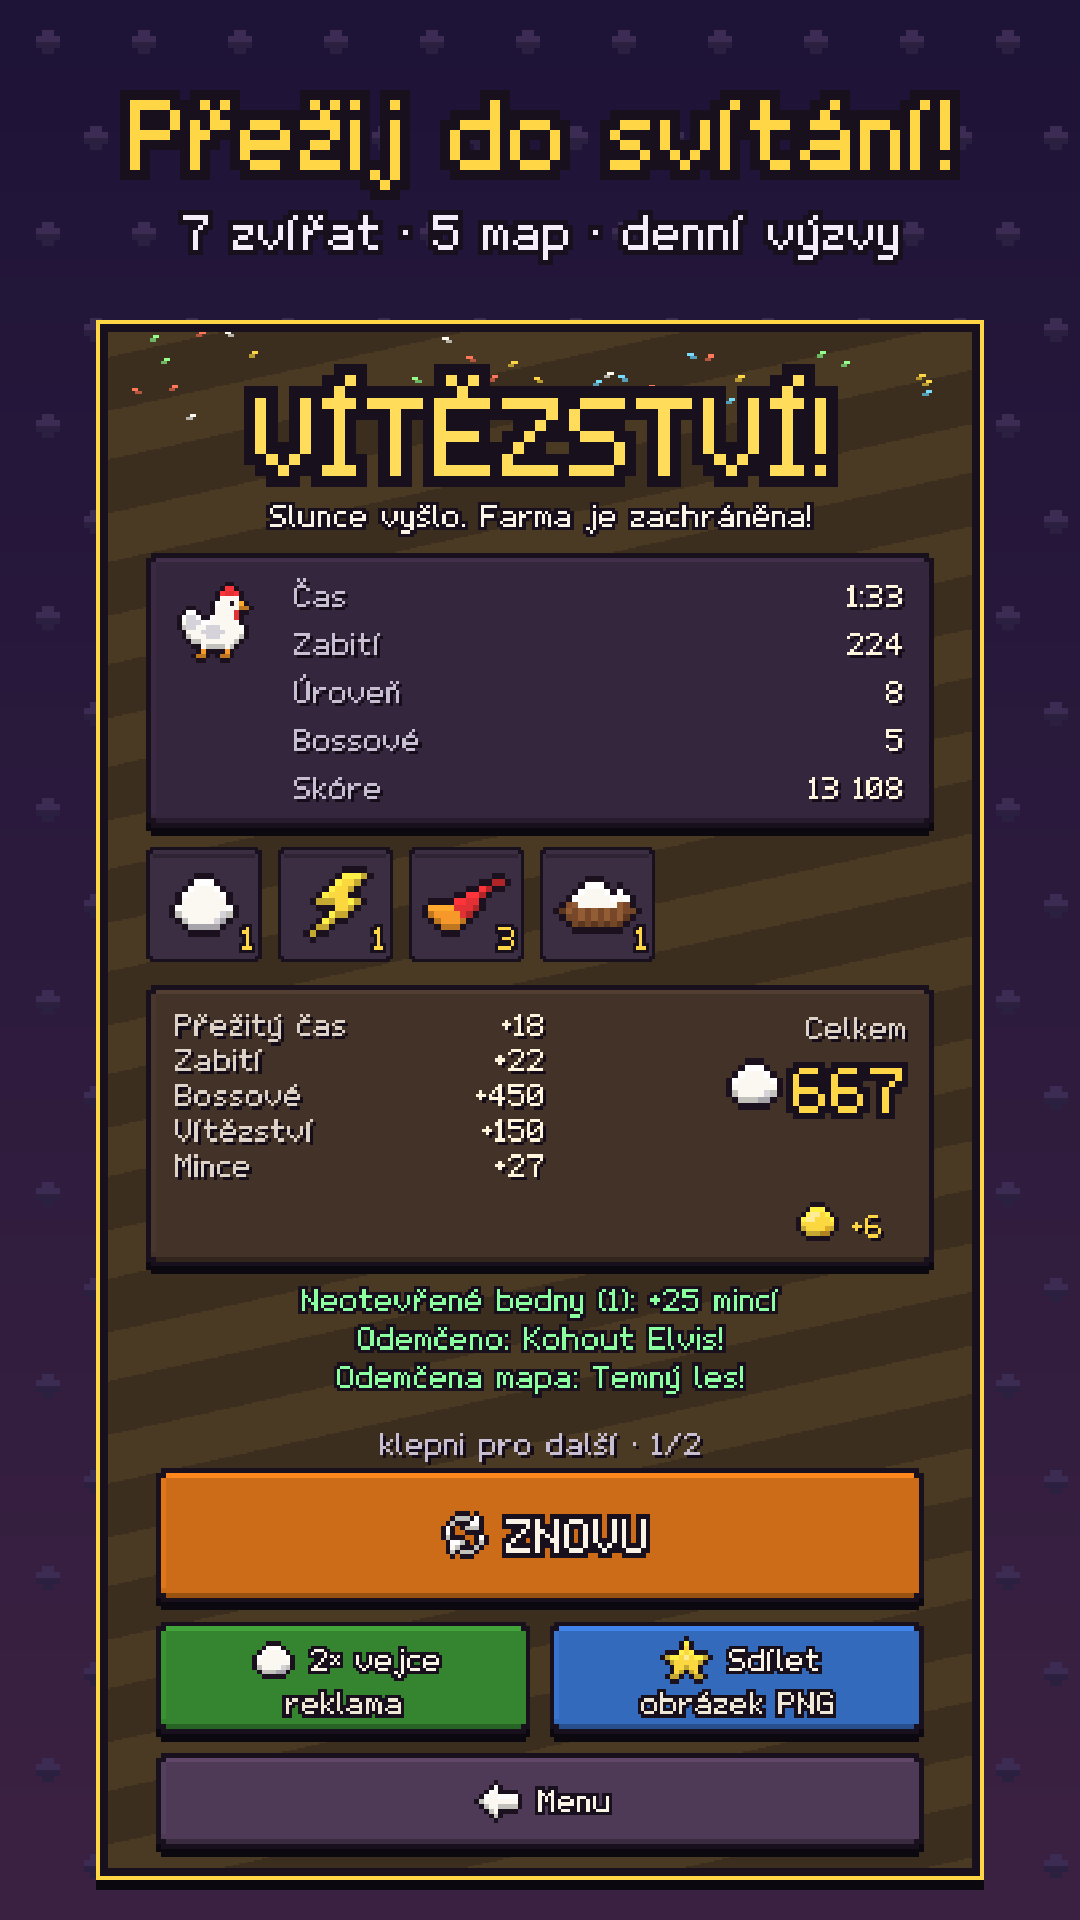
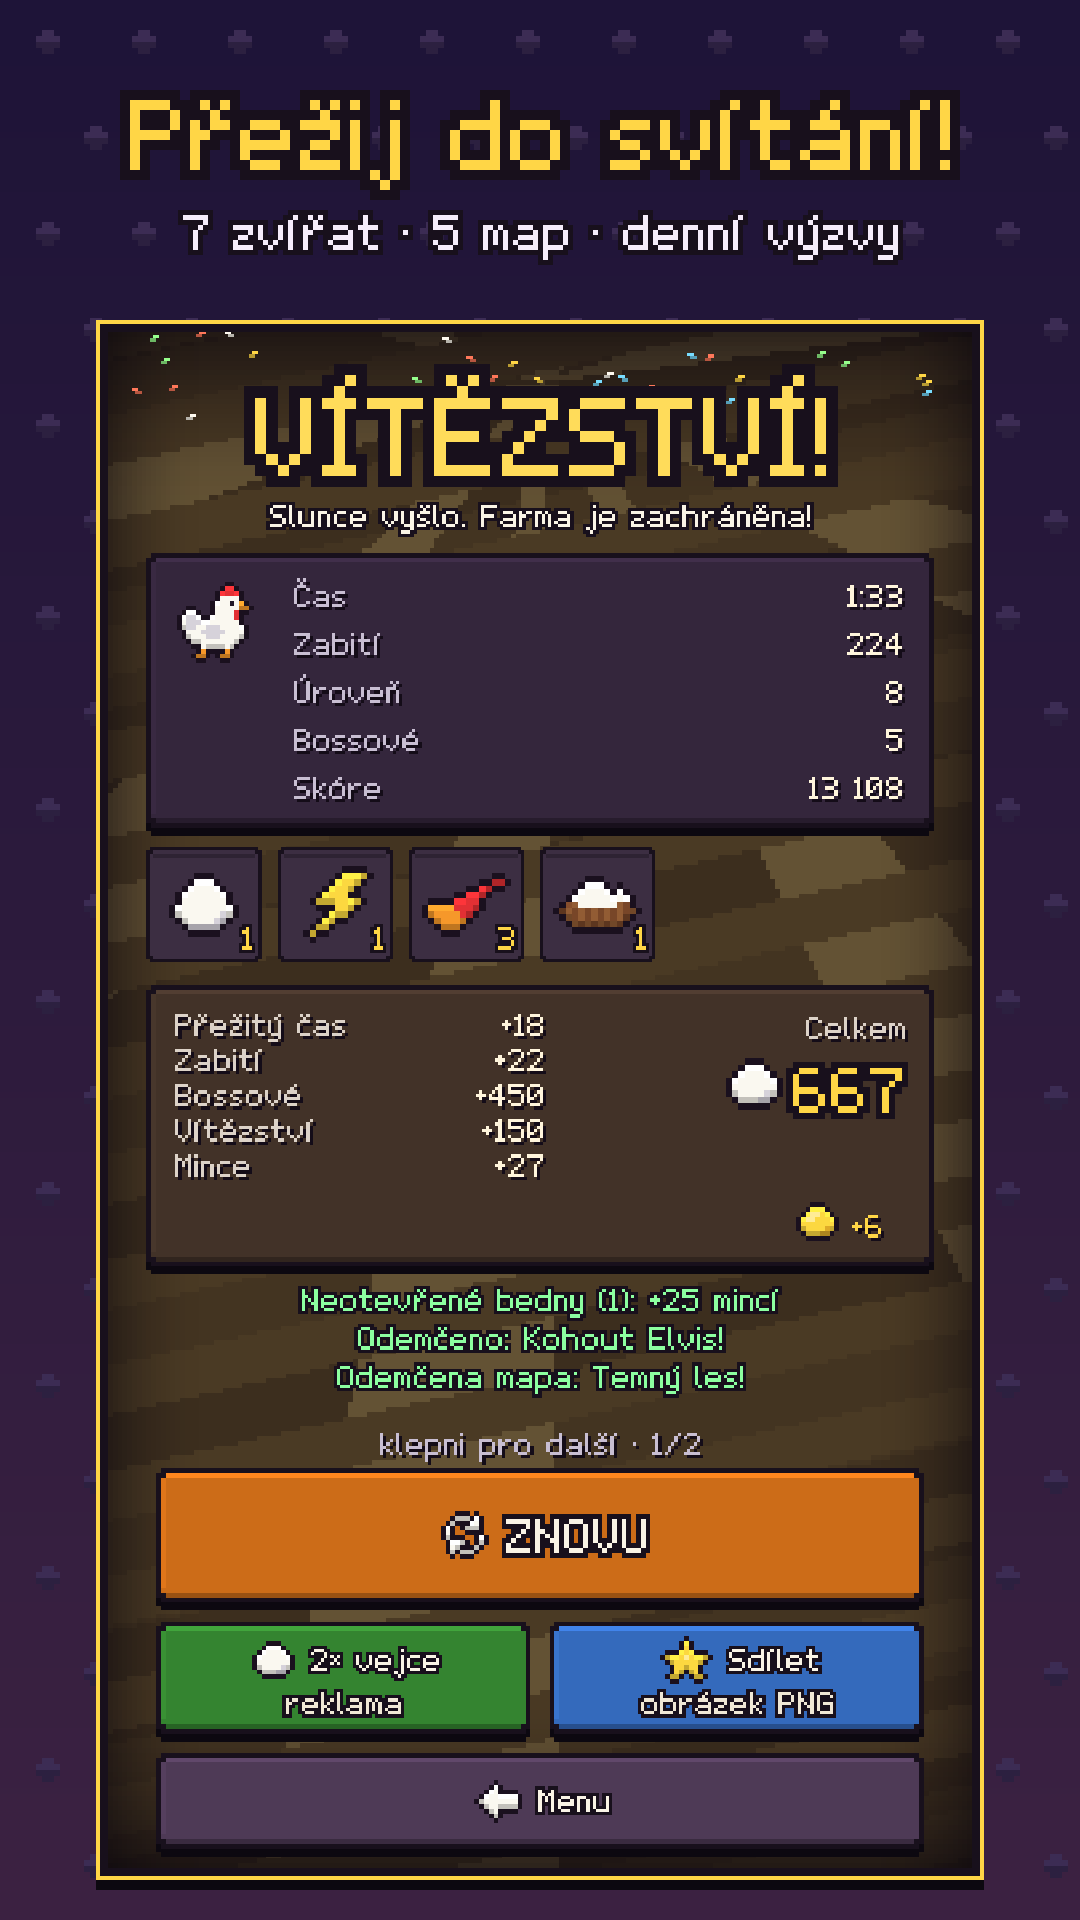
Polish round 4: steady menu stars, subtle player squash, lighter pause dim, layered chest rays, parallax results bg, no grass spikes

diff --git a/game/ui/overlays.py b/game/ui/overlays.py
@@ -10,6 +10,7 @@ from ..config import C_GOLD, C_OUTLINE, C_TEXT, H, RARITY_COLORS, RARITY_NAMES, 
 from ..data.passives import PASSIVES
 from ..data.weapons import WEAPONS
 from ..util import ease_out_back, ease_out_cubic, fmt_num
+from ..gfx.particles import STAR, ParticleSystem, blit_add, glow_sprite
 from .widgets import Button, draw_frame, draw_icon_frame, draw_panel
 
 
@@ -292,6 +293,8 @@ class ChestOverlay(Overlay):
                            key=pygame.K_RETURN)
         self.b_ok.visible = False
         self.buttons = [self.b_ok]
+        self.fx = ParticleSystem(140)
+        self._spark_t = 0.0
         assets.audio.play("chest")
 
     def _close(self) -> None:
@@ -311,8 +314,19 @@ class ChestOverlay(Overlay):
 
     def update(self, dt: float) -> None:
         super().update(dt)
+        self.fx.update(dt)
+        if self.opened:
+            # třpytky stoupající kolem truhly
+            self._spark_t -= dt
+            if self._spark_t <= 0:
+                self._spark_t = 0.07
+                r = self.fx.rng
+                col = (255, 140, 255) if self.reward and self.reward.get("evolution") else (255, 226, 120)
+                self.fx.emit(W // 2 + r.uniform(-90, 90), 168 + r.uniform(-20, 40), r.uniform(-10, 10),
+                             r.uniform(-70, -30), r.uniform(0.6, 1.1), STAR, col, 3)
         if not self.opened and self.t >= 1.0:
             self.opened = True
+            self.fx.burst_ring(W // 2, 168, 16, (255, 236, 150), 260)
             assets.audio.play("gold")
             if self.reward and self.reward.get("evolution"):
                 assets.audio.play("fanfare")
@@ -333,19 +347,16 @@ class ChestOverlay(Overlay):
             font.draw(surf, "BEDNA!", (cx, cy - 130), C_GOLD, 5, "midtop", outline=C_OUTLINE)
             font.draw(surf, "klepni pro otevření", (cx, cy + 90), C_TEXT, 2, "midtop", outline=C_OUTLINE)
             return
-        # paprsky
-        # paprsky přes celou obrazovku (dřív useknuté rovnou čarou v polovině – B-39)
-        rays = pygame.Surface((W, H), pygame.SRCALPHA)
-        col = (255, 220, 90, 60) if not evo else (255, 120, 255, 70)
-        ry = 168
-        for i in range(12):
-            a = self.t * 0.8 + i * math.tau / 12
-            pts = [(cx, ry), (cx + math.cos(a) * 1200, ry + math.sin(a) * 1200),
-                   (cx + math.cos(a + 0.15) * 1200, ry + math.sin(a + 0.15) * 1200)]
-            pygame.draw.polygon(rays, col, pts)
-        surf.blit(rays, (0, 0))
+        # paprsky přes celou obrazovku ve dvou vrstvách (pomalé široké vzadu, rychlejší úzké vpředu = hloubka),
+        # kreslené v art pixelech (1/3) a zvětšené – hrany sedí k pixel artu
+        surf.blit(_chest_rays(self.t, evo), (0, 0))
+        k = 0.5 + 0.5 * math.sin(self.t * 3)
+        g = glow_sprite(30, (150, 70, 150) if evo else (150, 110, 40), 0.7 + 0.3 * k)
+        blit_add(surf, [(g, g.get_rect(center=(cx, 168)))])
+        self.fx.draw(surf, 0, 0)
         img = assets.icons.get("chest", 6)
-        surf.blit(img, img.get_rect(center=(cx, 168)))
+        bob = int(math.sin(self.t * 2.4) * 4) // 2 * 2
+        surf.blit(img, img.get_rect(center=(cx, 168 + bob)))
         font.draw(surf, "EVOLUCE!" if evo else "Poklad!", (cx, 56), (255, 140, 255) if evo else C_GOLD, 5, "midtop",
                   outline=C_OUTLINE)
         if self.reward:
@@ -449,7 +460,7 @@ class PauseOverlay(Overlay):
     def draw(self, surf) -> None:
         font = assets.font
         run = self.run
-        _dim(surf, 225)
+        _dim(surf, 120)
         font.draw(surf, "PAUZA", (W // 2, 36), (255, 220, 90), 6, "midtop", outline=C_OUTLINE)
         font.draw(surf, f"{run.char.name} · {run.biome.short or run.biome.name} · {run.diff.name}", (W // 2, 108),
                   C_TEXT, 2, "midtop", outline=C_OUTLINE)
@@ -484,3 +495,26 @@ class PauseOverlay(Overlay):
         for i, s_ in enumerate(stats):
             font.draw(surf, s_, (cols[i % 2], y + (i // 2) * 28), (215, 205, 225), 2, "topleft")
         super().draw(surf)
+
+
+_RAYS: dict = {}
+
+
+def _chest_rays(t: float, evo: bool) -> pygame.Surface:
+    """Paprsky z truhly: dvě vrstvy otáčející se proti sobě, v rozlišení art pixelů, zvětšené ×3."""
+    low = _RAYS.get("low")
+    if low is None:
+        low = _RAYS["low"] = pygame.Surface((W // 3, H // 3), pygame.SRCALPHA)
+        _RAYS["big"] = pygame.Surface((W, H), pygame.SRCALPHA)
+    low.fill((0, 0, 0, 0))
+    cx, cy = W // 6, 56
+    back = (255, 160, 255, 34) if evo else (255, 200, 90, 34)
+    front = (255, 190, 255, 62) if evo else (255, 236, 140, 62)
+    for col, n, width, speed in ((back, 8, 0.32, -0.25), (front, 14, 0.11, 0.6)):
+        for i in range(n):
+            a = t * speed + i * math.tau / n
+            pygame.draw.polygon(low, col, [(cx, cy), (cx + math.cos(a) * 400, cy + math.sin(a) * 400),
+                                           (cx + math.cos(a + width) * 400, cy + math.sin(a + width) * 400)])
+    big = _RAYS["big"]
+    pygame.transform.scale(low, (W, H), big)
+    return big

diff --git a/game/scenes/base.py b/game/scenes/base.py
@@ -258,12 +258,37 @@ class Scene:
             self.modal.draw(surf)
 
 
-def draw_bg(surf, t: float, color=(40, 28, 48), stripes=(48, 34, 58)) -> None:
-    surf.fill(color)
-    off = int(t * 20) % 64
-    for i in range(-2, H // 32 + 3):
-        y = i * 64 + off
-        pygame.draw.polygon(surf, stripes, [(0, y), (W, y - 120), (W, y - 90), (0, y + 30)])
+def draw_bg(surf, t: float, color=(40, 28, 48), stripes=(48, 34, 58), rays: bool = False) -> None:
+    """Animované pozadí (výsledky) s hloubkou: dvě vrstvy pruhů v různé rychlosti (parallax), při výhře
+    pomalé sluneční paprsky shora, vinětace. Kreslí se v art pixelech (1/3) a zvětšuje ×3."""
+    from ..util import lerp_color
+    aw, ah = W // 3, H // 3
+    low = _BG_CACHE.get("low")
+    if low is None:
+        low = _BG_CACHE["low"] = pygame.Surface((aw, ah))
+    low.fill(color)
+    far = lerp_color(color, stripes, 0.5)
+    off = (t * 2.5) % 48
+    for i in range(-2, ah // 48 + 4):
+        y = i * 48 + off
+        pygame.draw.polygon(low, far, [(0, y), (aw, y - 40), (aw, y - 16), (0, y + 24)])
+    if rays:
+        cx, cy = aw // 2, 10
+        ray = lerp_color(color, (255, 226, 140), 0.2)
+        for i in range(10):
+            a = t * 0.12 + i * math.tau / 10
+            pygame.draw.polygon(low, ray, [(cx, cy), (cx + math.cos(a) * 400, cy + math.sin(a) * 400),
+                                           (cx + math.cos(a + 0.2) * 400, cy + math.sin(a + 0.2) * 400)])
+    off = (t * 7) % 22
+    for i in range(-2, ah // 22 + 4):
+        y = i * 22 + off
+        pygame.draw.polygon(low, stripes, [(0, y), (aw, y - 40), (aw, y - 30), (0, y + 10)])
+    pygame.transform.scale(low, (W, H), surf)
+    vig = _BG_CACHE.get("vig")
+    if vig is None:
+        vig = _BG_CACHE["vig"] = _bg_vignette()
+    for img, pos in vig:
+        surf.blit(img, pos)
 
 
 # --- sdílené pozadí obrazovek menu ------------------------------------------------------------

diff --git a/game/scenes/menu.py b/game/scenes/menu.py
@@ -152,9 +152,9 @@ class MenuScene(Scene):
         font = assets.font
         surf.blit(_menu_backdrop(), (0, 0))
         for x, y, ph in self.stars:
-            tw = math.sin(self.t * 2 + ph * 10)
-            if tw > -0.3:
-                surf.fill((255, 250, 220) if tw > 0.6 else (190, 180, 200), (x, y, 2, 2))
+            # hvězdy svítí stále; jen asi čtvrtina pomalu mírně mění jas (dřív blikaly zhasnuto/rozsvíceno)
+            bright = ph < 0.25 and math.sin(self.t * 0.8 + ph * 40) > 0.3
+            surf.fill((255, 250, 220) if bright or ph > 0.6 else (200, 192, 214), (x, y, 2, 2))
         # měsíc se září
         blit_add(surf, [(glow_sprite(16, (90, 84, 60), 0.9 + 0.1 * math.sin(self.t * 1.5)), (430 - 49, 80 - 49))])
         surf.blit(_moon(), (430 - 36, 80 - 36))
@@ -282,11 +282,6 @@ def _menu_backdrop() -> pygame.Surface:
         y = meadow[x] + rng.randrange(5, 40)
         low.set_at((x, y), rng.choice(((214, 214, 240), (240, 220, 140), (190, 170, 230))))
         low.set_at((x, y + 1), (30, 56, 40))
-    # rám: tmavá vysoká tráva u spodního okraje
-    for x in range(aw):
-        hgt = int(5 + 4 * math.sin(x * 0.31) + 3 * math.sin(x * 0.83 + 1) + rng.randint(0, 3))
-        for y in range(ah - hgt, ah):
-            low.set_at((x, y), (14, 24, 24) if (y - (ah - hgt)) > 0 or x & 1 else (18, 30, 28))
     s = pygame.transform.scale(low, (W, H))
 
     sb = assets.sprites

diff --git a/game/world/render.py b/game/world/render.py
@@ -605,9 +605,10 @@ class RunRenderer:
             # průhlednost až na hotový (případně otočený) snímek – nikdy ne do cache
             img = img.copy()
             img.set_alpha(120)
-        sq = clamp(p.sq, 0.75, 1.25)
+        # squash & stretch jen naznačený: při častém kličkování dřív slepici neustále „rozplácával“
+        sq = clamp(1.0 + (p.sq - 1.0) * 0.35, 0.92, 1.08)
         w0, h0 = img.get_size()
-        if abs(sq - 1) > 0.02:
+        if abs(sq - 1) > 0.03:
             img = pygame.transform.scale(img, (int(w0 * (2 - sq)), int(h0 * sq)))
         w, h = img.get_size()
         bob = -abs(math.sin(p.anim * 0.5 * math.pi)) * 3 if p.moving else 0

diff --git a/game/scenes/results.py b/game/scenes/results.py
@@ -165,7 +165,7 @@ class ResultsScene(Scene):
         font = assets.font
         run = self.run
         draw_bg(surf, self.t, (50, 34, 40) if not self.victory else (60, 46, 30),
-                (60, 40, 48) if not self.victory else (74, 58, 36))
+                (60, 40, 48) if not self.victory else (74, 58, 36), rays=self.victory)
         k = ease_out_back(min(1.0, self.t * 2.5))
         if self.victory:
             title, col = "VÍTĚZSTVÍ!", (255, 220, 90)

diff --git a/POLISH_LOG.md b/POLISH_LOG.md
@@ -59,3 +59,11 @@
 - Page dots: pixel-art balls from the same generator as the sprites (`pa.build`: outline + light from the top) on the 2 px font grid. Selected 5×5, others 4×4, instead of `pygame.draw.circle`.
 - Ground tiles: spots no longer wrap around the tile edge (they were cut off at seams with a different variant). The farm "road" strip and the factory hazard stripe ended abruptly at tile edges → replaced by contained motifs (irregular trodden dirt, a hazard plate inside one panel).
 - Stink: the cloud was 7 lobes with dark rims = "circles on top of each other" → now billowing smoke like the explosions: many smaller puffs (shaded discs without a rim) that are born, swell, rise and fade, deterministic from time. The aura is the same puffs in a ring band.
+
+## Round 4 (user feedback)
+- Menu stars no longer switch off and on: they always shine, and about a quarter of them slowly change brightness between two tones.
+- Player "squashes" when changing direction: on every turn the speed briefly drops below the walk threshold → the movement-start stretch fires again → the spring wobbled the sprite on frequent zig-zags. Visual-only fix in the renderer: deformation reduced to 35 %, capped at ±8 %, ignored below 3 %. `player.py` unchanged.
+- Pause: dim 225 (almost black) → 120. The paused game stays visible behind the panel.
+- Chest: rays in two layers rotating against each other (wide slow ones at the back, narrow fast ones in front), drawn at art resolution and scaled ×3 (pixel edges). Plus a pulsing glow behind the chest, a star burst on opening, rising sparkles and a gentle bob of the chest. The rays surface is reused (no per-frame allocation, unlike before).
+- Results background: two stripe layers at different speeds (parallax) in pixel resolution, slow sun rays from the top on victory, and the same vignette as the other screens.
+- The dark grass "spikes" at the bottom of the menu were removed; only the gradient remains.

diff --git a/POLISH_REPORT.md b/POLISH_REPORT.md
@@ -44,6 +44,12 @@ Screenshoty: před `polish/before/`, po `polish/after/` (stejná sada a stejný 
 - **Země ve hře**: dlaždice bez švů (skvrny se neořezávají na hraně, cesta a výstražný pruh nahrazené uzavřenými motivy).
 - **Smrad**: vzdouvající se oblak z mnoha chuchvalců jako kouř výbuchů. Aura je prstenec stejného plynu.
 
+### Kolo 4 (podle zpětné vazby)
+- Hvězdy v menu nezhasínají, jen jemně mění jas. Dole v menu už nejsou tmavé cípy trávy, zůstal jen gradient.
+- Slepice se při kličkování už nedeformuje: squash & stretch je jen naznačený (renderer, hratelnost beze změny).
+- Pauza: místo téměř černé je za panelem lehce ztmavená hra.
+- Bedna: dvouvrstvé paprsky proti sobě, záře, třpytky a pohupování. Pozadí výsledků: parallax pruhy a při výhře sluneční paprsky.
+
 ## Zjištění z kódu, která stojí za pozornost
 - **Hra už byla vizuálně soudržná.** Pixel art, vlastní bitmapový font s diakritikou, stíny, y-sorting, omezený třes (trauma model), omezovač záblesků a nastavení přístupnosti tu byly. Rozšiřoval jsem existující systémy, nic paralelního nevzniklo.
 - **`Run.rng` je herní RNG** (deterministické denní výzvy). Všechen nový vizuální kód používá vlastní RNG částic, ambientu nebo menu. Pozor ale na **existující únik**: `damage_enemy` bere `run.rng` na posun čísla poškození jen když hra není headless. Headless simulace a skutečná hra se stejným seedem se proto rozejdou. Nebyl to úkol této práce, nechal jsem to být.
